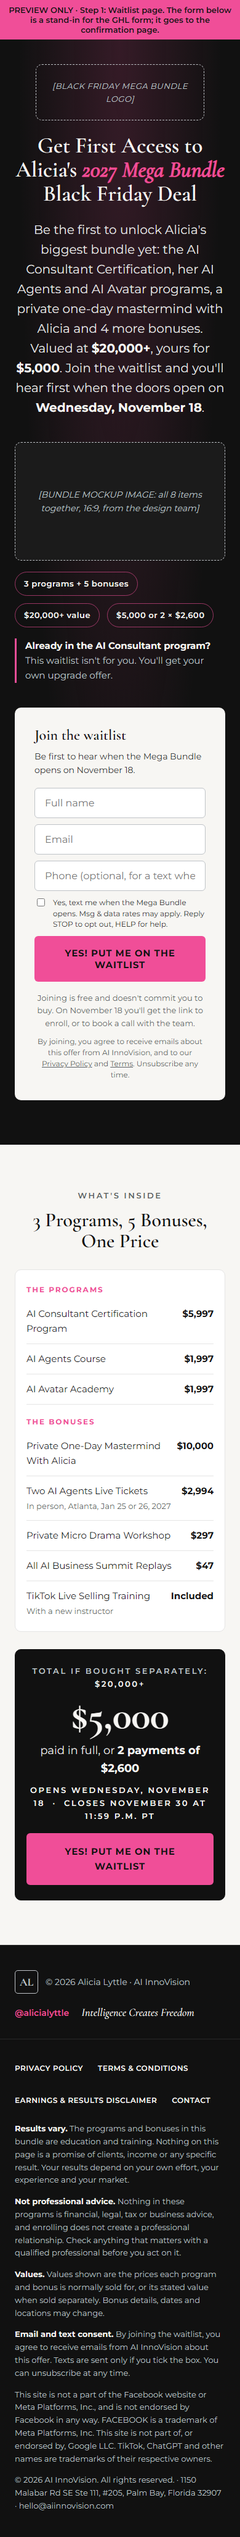
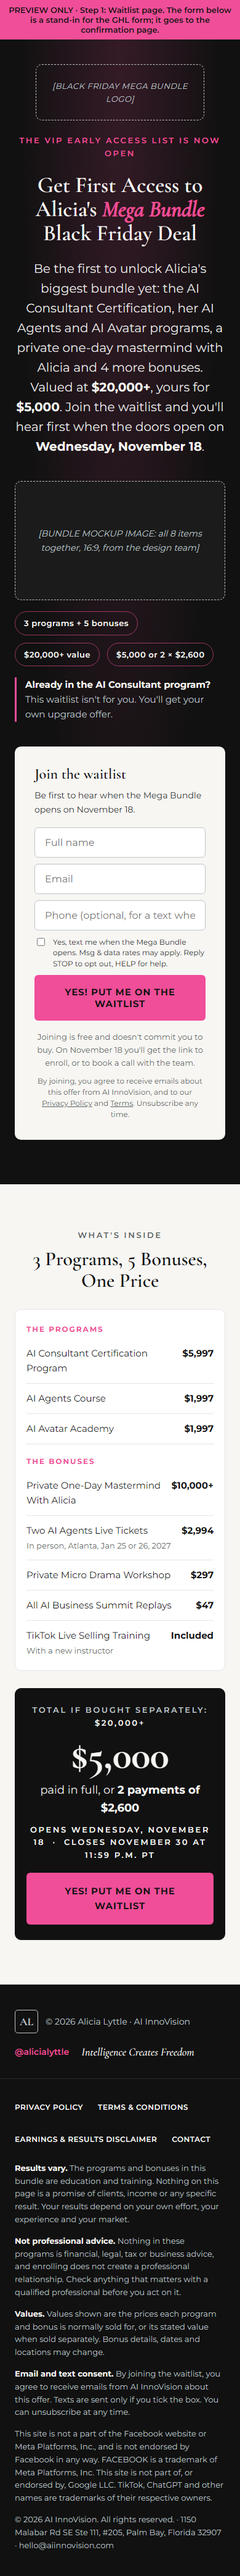
Waitlist: pre-headline 'The VIP Early Access List Is Now Open'; drop 2027 from headline

Changed region(s): [[0.0, 0.0, 1.0, 0.9968]]

diff --git a/funnels/mega-bundle-waitlist-nov-2026/design/waitlist.html b/funnels/mega-bundle-waitlist-nov-2026/design/waitlist.html
@@ -122,7 +122,8 @@ details summary::-webkit-details-marker{display:none}
 <div class="logo" id="bundle-logo"><!-- Replace with the logo image: <img src="LOGO-URL" alt="Alicia Lyttle: The Black Friday Mega Bundle"> -->
 <span>[BLACK FRIDAY MEGA BUNDLE LOGO]</span>
 </div>
-<h1 style="font-size: 56px; color: #F7F6F3; max-width: 980px">Get First Access to Alicia's <em style="font-style: italic; color: #F04E98">2027 Mega Bundle</em> Black Friday Deal</h1>
+<p class="eyebrow" style="color: #F04E98">The VIP Early Access List Is Now Open</p>
+<h1 style="font-size: 56px; color: #F7F6F3; max-width: 980px">Get First Access to Alicia's <em style="font-style: italic; color: #F04E98">Mega Bundle</em> Black Friday Deal</h1>
 <p class="body" style="font-size: 20px; max-width: 820px">Be the first to unlock Alicia's biggest bundle yet: the AI Consultant Certification, her AI Agents and AI Avatar programs, a private one-day mastermind with Alicia and 4 more bonuses. Valued at <strong style="color: #F7F6F3">$20,000+</strong>, yours for <strong style="color: #F7F6F3">$5,000</strong>. Join the waitlist and you'll hear first when the doors open on <strong style="color: #F7F6F3">Wednesday, November 18</strong>.</p>
 </div>
 <div style="display: flex; flex-wrap: wrap; gap: 40px; align-items: center">

diff --git a/funnels/mega-bundle-waitlist-nov-2026/preview/1-waitlist.html b/funnels/mega-bundle-waitlist-nov-2026/preview/1-waitlist.html
@@ -122,7 +122,8 @@ details summary::-webkit-details-marker{display:none}
 <div class="logo" id="bundle-logo"><!-- Replace with the logo image: <img src="LOGO-URL" alt="Alicia Lyttle: The Black Friday Mega Bundle"> -->
 <span>[BLACK FRIDAY MEGA BUNDLE LOGO]</span>
 </div>
-<h1 style="font-size: 56px; color: #F7F6F3; max-width: 980px">Get First Access to Alicia's <em style="font-style: italic; color: #F04E98">2027 Mega Bundle</em> Black Friday Deal</h1>
+<p class="eyebrow" style="color: #F04E98">The VIP Early Access List Is Now Open</p>
+<h1 style="font-size: 56px; color: #F7F6F3; max-width: 980px">Get First Access to Alicia's <em style="font-style: italic; color: #F04E98">Mega Bundle</em> Black Friday Deal</h1>
 <p class="body" style="font-size: 20px; max-width: 820px">Be the first to unlock Alicia's biggest bundle yet: the AI Consultant Certification, her AI Agents and AI Avatar programs, a private one-day mastermind with Alicia and 4 more bonuses. Valued at <strong style="color: #F7F6F3">$20,000+</strong>, yours for <strong style="color: #F7F6F3">$5,000</strong>. Join the waitlist and you'll hear first when the doors open on <strong style="color: #F7F6F3">Wednesday, November 18</strong>.</p>
 </div>
 <div style="display: flex; flex-wrap: wrap; gap: 40px; align-items: center">

diff --git a/funnels/mega-bundle-waitlist-nov-2026/ghl/waitlist.ghl.html b/funnels/mega-bundle-waitlist-nov-2026/ghl/waitlist.ghl.html
@@ -190,7 +190,8 @@ body { background: #111111; }
 <div class="logo" id="bundle-logo"><!-- Replace with the logo image: <img src="LOGO-URL" alt="Alicia Lyttle: The Black Friday Mega Bundle"> -->
 <span>[BLACK FRIDAY MEGA BUNDLE LOGO]</span>
 </div>
-<h1 style="font-size: 56px; color: #F7F6F3; max-width: 980px">Get First Access to Alicia's <em style="font-style: italic; color: #F04E98">2027 Mega Bundle</em> Black Friday Deal</h1>
+<p class="eyebrow" style="color: #F04E98">The VIP Early Access List Is Now Open</p>
+<h1 style="font-size: 56px; color: #F7F6F3; max-width: 980px">Get First Access to Alicia's <em style="font-style: italic; color: #F04E98">Mega Bundle</em> Black Friday Deal</h1>
 <p class="body" style="font-size: 20px; max-width: 820px">Be the first to unlock Alicia's biggest bundle yet: the AI Consultant Certification, her AI Agents and AI Avatar programs, a private one-day mastermind with Alicia and 4 more bonuses. Valued at <strong style="color: #F7F6F3">$20,000+</strong>, yours for <strong style="color: #F7F6F3">$5,000</strong>. Join the waitlist and you'll hear first when the doors open on <strong style="color: #F7F6F3">Wednesday, November 18</strong>.</p>
 </div>
 <div style="display: flex; flex-wrap: wrap; gap: 40px; align-items: center">

diff --git a/funnels/mega-bundle-waitlist-nov-2026/copy/waitlist-page.md b/funnels/mega-bundle-waitlist-nov-2026/copy/waitlist-page.md
@@ -3,7 +3,7 @@
 Status: DRAFT for review (2026-11-05). Written by us from Michael's team brief + Loom. Design: match the AI Life Summit pages (black #111111, pink #F04E98, off-white #F7F6F3, Cormorant Garamond headlines, Montserrat body, same nav and footer).
 Rules applied: price and contents shown up front (Nehemiah), verified prices only, no income promises, one deadline format. Anything not verified is in [BRACKETS].
 
-> **2026-11-05: SHORT VERSION APPROVED.** After comparing with last year's one-screen waitlist (`reference/model-funnels/black-friday-waitlist-2025/`), the page was cut to: Nav · Hero + form (with the consultant line and "On November 18 you'll get the link to enroll, or to book a call" under the form) · What's inside as a one-line-per-item list + price box · Footer. **Later the same day:** nav bar removed; a logo slot sits at the top; hero = headline "Get First Access to Alicia's 2027 Mega Bundle Black Friday Deal" (chosen by the user, modelled on last year's; "2027 Mega Bundle" in pink italic) + subheadline "Be the first to unlock Alicia's biggest bundle yet: the AI Consultant Certification, her AI Agents and AI Avatar programs, a private one-day mastermind with Alicia and 4 more bonuses. Valued at $20,000+, yours for $5,000. Join the waitlist and you'll hear first when the doors open on Wednesday, November 18." (no year in the subheadline, so it doesn't clash with "2027"), then the bundle mockup slot + chips + consultant line beside the form. Sections 5 to 9 below (What happens next, For you, Meet Alicia, FAQ, Final CTA) are **no longer on the page**; item descriptions are dropped. Kept below for reference only. The built page is `design/waitlist.html`.
+> **2026-11-05: SHORT VERSION APPROVED.** After comparing with last year's one-screen waitlist (`reference/model-funnels/black-friday-waitlist-2025/`), the page was cut to: Nav · Hero + form (with the consultant line and "On November 18 you'll get the link to enroll, or to book a call" under the form) · What's inside as a one-line-per-item list + price box · Footer. **Later the same day:** nav bar removed; a logo slot sits at the top; hero = pre-headline "The VIP Early Access List Is Now Open" + headline "Get First Access to Alicia's Mega Bundle Black Friday Deal" ("Mega Bundle" in pink italic; "2027" dropped to keep the official name) + subheadline "Be the first to unlock Alicia's biggest bundle yet: the AI Consultant Certification, her AI Agents and AI Avatar programs, a private one-day mastermind with Alicia and 4 more bonuses. Valued at $20,000+, yours for $5,000. Join the waitlist and you'll hear first when the doors open on Wednesday, November 18." (no year in the subheadline, so it doesn't clash with "2027"), then the bundle mockup slot + chips + consultant line beside the form. Sections 5 to 9 below (What happens next, For you, Meet Alicia, FAQ, Final CTA) are **no longer on the page**; item descriptions are dropped. Kept below for reference only. The built page is `design/waitlist.html`.
 
 ---
 
